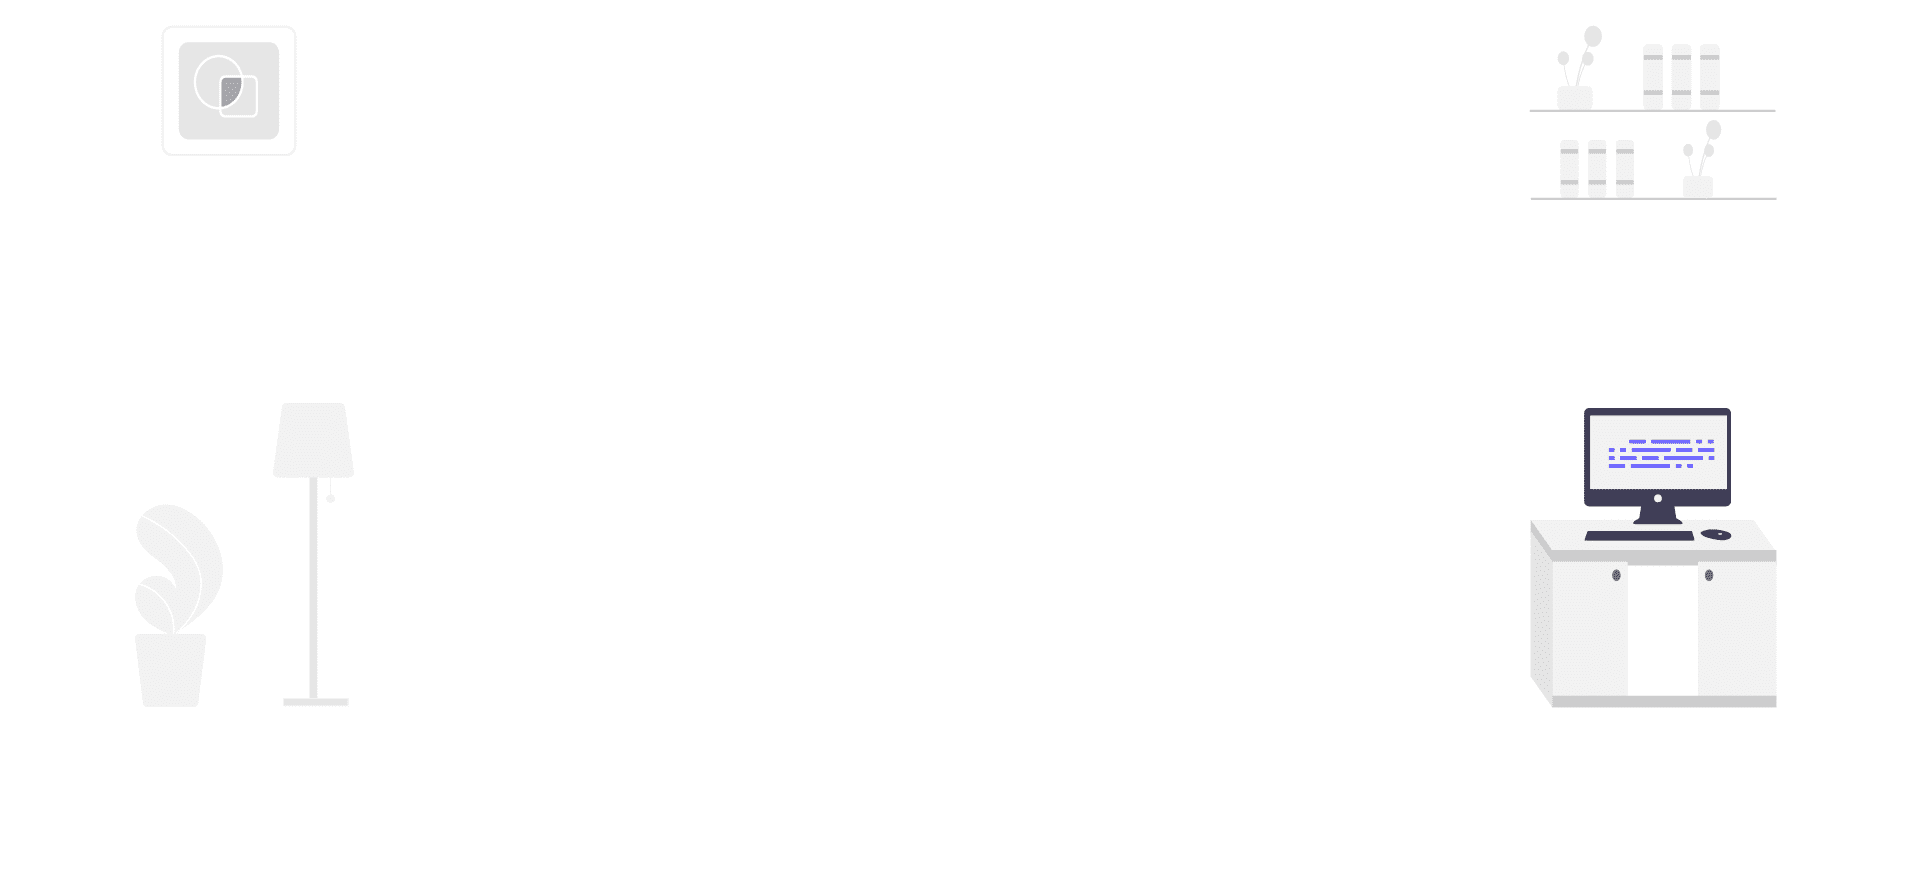
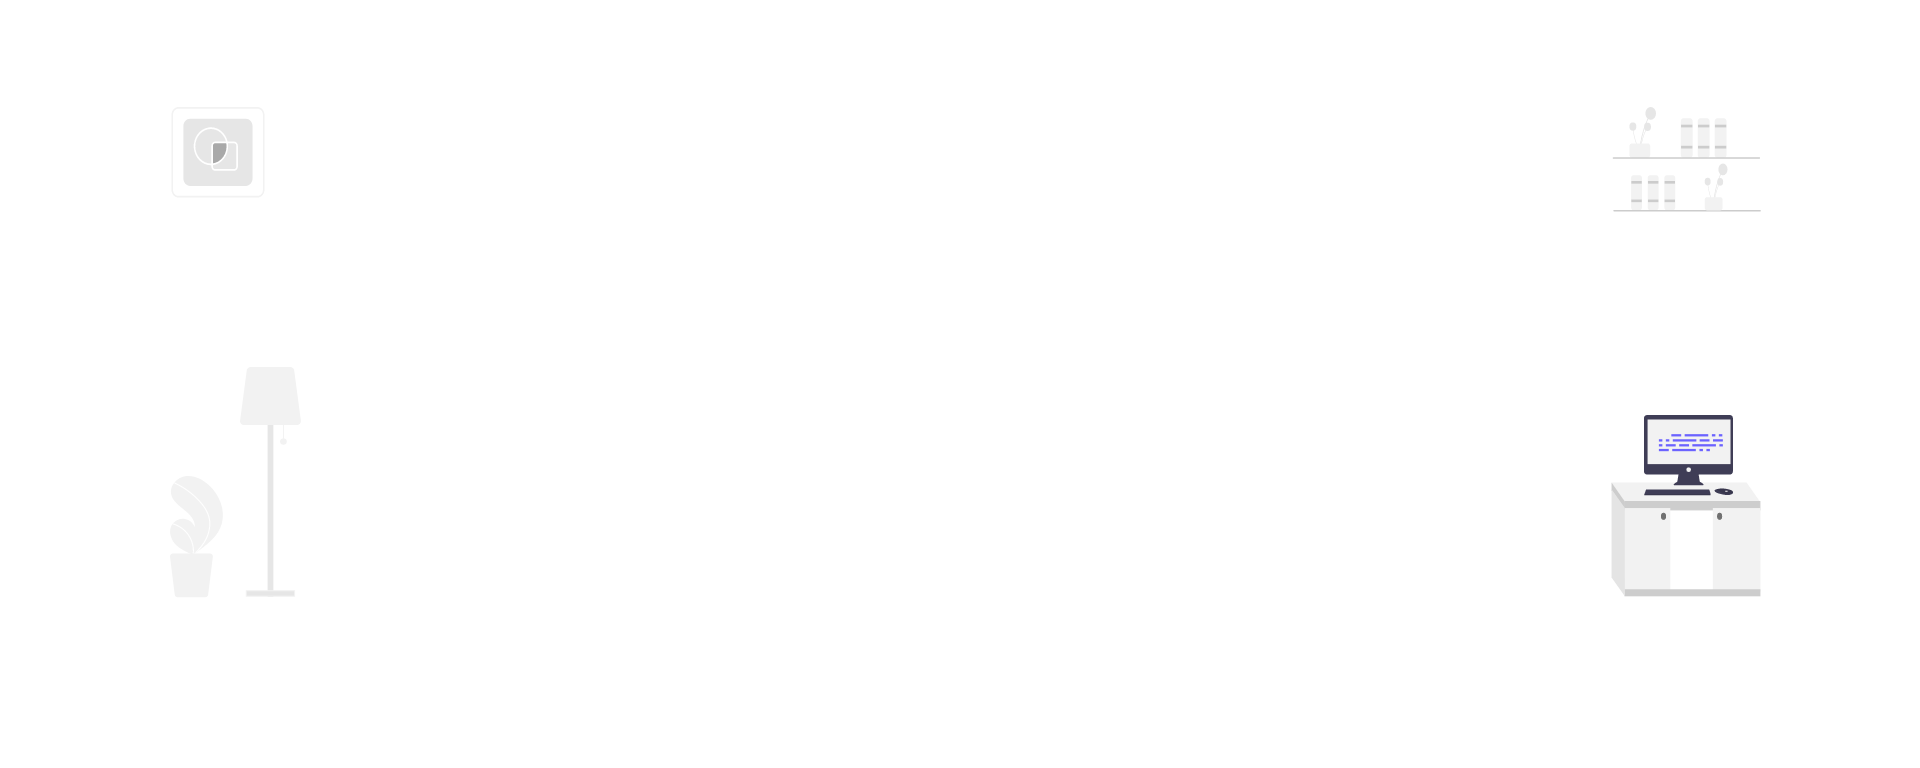
Responsive Homepage

diff --git a/src/index.css b/src/index.css
@@ -2,6 +2,7 @@ body {
     margin: 0;
     padding: 0;
     height: 100%;
+    background: var(--background);
 }
 /* generated by XD */
 :root {
@@ -35,68 +36,3 @@ body {
     --unnamed-line-spacing-72: 72px;
     }
     
-    /* Character Styles */
-    .h1-dark {
-    font-family: var(--unnamed-font-family-poppins);
-    font-style: var(--unnamed-font-style-normal);
-    font-weight: var(--unnamed-font-weight-medium);
-    font-size: var(--unnamed-font-size-48);
-    line-height: var(--unnamed-line-spacing-72);
-    letter-spacing: var(--unnamed-character-spacing-0);
-    color: var(--unnamed-color-211f50);
-    }
-    .h1 {
-    font-family: var(--unnamed-font-family-poppins);
-    font-style: var(--unnamed-font-style-normal);
-    font-weight: var(--unnamed-font-weight-normal);
-    font-size: var(--unnamed-font-size-48);
-    line-height: var(--unnamed-line-spacing-72);
-    letter-spacing: var(--unnamed-character-spacing-0);
-    color: var(--unnamed-color-6c63ff);
-    }
-    .h2 {
-    font-family: var(--unnamed-font-family-poppins);
-    font-style: var(--unnamed-font-style-normal);
-    font-weight: var(--unnamed-font-weight-normal);
-    font-size: var(--unnamed-font-size-30);
-    line-height: var(--unnamed-line-spacing-46);
-    letter-spacing: var(--unnamed-character-spacing-0);
-    color: var(--unnamed-color-6c63ff);
-    }
-    .h3 {
-    font-family: var(--unnamed-font-family-poppins);
-    font-style: var(--unnamed-font-style-normal);
-    font-weight: var(--unnamed-font-weight-normal);
-    font-size: var(--unnamed-font-size-22);
-    line-height: var(--unnamed-line-spacing-48);
-    letter-spacing: var(--unnamed-character-spacing-0);
-    color: var(--unnamed-color-4a4a4a);
-    }
-    .text-regular {
-    font-family: var(--unnamed-font-family-poppins);
-    font-style: var(--unnamed-font-style-normal);
-    font-weight: var(--unnamed-font-weight-normal);
-    font-size: var(--unnamed-font-size-18);
-    line-height: var(--unnamed-line-spacing-24);
-    letter-spacing: var(--unnamed-character-spacing-0);
-    color: var(--unnamed-color-888888);
-    }
-    .text-dark {
-    font-family: var(--unnamed-font-family-poppins);
-    font-style: var(--unnamed-font-style-normal);
-    font-weight: var(--unnamed-font-weight-normal);
-    font-size: var(--unnamed-font-size-18);
-    line-height: var(--unnamed-line-spacing-27);
-    letter-spacing: var(--unnamed-character-spacing-0);
-    color: var(--unnamed-color-4a4a4a);
-    }
-    .button {
-    font-family: var(--unnamed-font-family-segoe-ui);
-    font-style: var(--unnamed-font-style-normal);
-    font-weight: var(--unnamed-font-weight-normal);
-    font-size: var(--unnamed-font-size-40);
-    line-height: var(--unnamed-line-spacing-53);
-    letter-spacing: var(--unnamed-character-spacing--0-8);
-    color: var(--unnamed-color-ffffff);
-    }
-/* generated by XD */

diff --git a/src/components/Homepage/HomePageNavbar.css b/src/components/Homepage/HomePageNavbar.css
@@ -1,27 +1,39 @@
 .Homepage-navbar-Header{
-    padding-left: 3rem;
-    padding-top: 1rem;
-    padding-bottom: 1rem;
+    box-sizing: border-box;
+    margin: 0 auto;
+    background: white;
+    padding: 0 20px;
+    height: 80px;
+    width: 100%;
+    display: flex;
+    justify-content: space-between;
+    align-items: center;
 }
+
 .Homepage-navbar-Logo{
-    display: inline-block;
+    height: 100%;
+    width: auto;
+    padding: 0;
 }
+
+.Homepage-navbar-Menu{
+    display: inline-block;
+    padding: 0;
+}
+
 .Homepage-navbar-About{
     /* generated by XD */
     font: var(--unnamed-font-style-normal) normal var(--unnamed-font-weight-normal) var(--unnamed-font-size-30)/var(--unnamed-line-spacing-46) var(--unnamed-font-family-poppins);
     letter-spacing: var(--unnamed-character-spacing-0);
     background-color: var(--white);
     text-align: right;
-    font: normal normal normal 30px/46px Poppins;
+    font: normal normal normal 24px/46px Poppins;
     letter-spacing: 0px;
     color: #6C63FF;
     opacity: 1;
     /* generated by XD */
+    margin-right: 60px;
     border: 0;
-    position: absolute;
-    right:10rem;
-    top:2rem;
-    margin-right: 4rem;
     cursor: pointer;
 }
 .Homepage-navbar-Login{
@@ -30,14 +42,27 @@
     letter-spacing: var(--unnamed-character-spacing-0);
     background-color: var(--white);
     text-align: right;
-    font: normal normal normal 30px/46px Poppins;
+    font: normal normal normal 24px/46px Poppins;
     letter-spacing: 0px;
     color: #6C63FF;
     opacity: 1;
     /* generated by XD */
     border: 0;
-    position: absolute;
-    right:4rem;
-    top:2rem;
     cursor: pointer;
+}
+
+@media(min-width: 1600px) {
+    .Homepage-navbar-Header {
+        width: 1600px;
+    }
+}
+
+@media(max-width: 600px) {
+    .Homepage-navbar-Header {
+        height: 60px;
+    }
+
+    .Homepage-navbar-Menu {
+        display: none;
+    }
 }

diff --git a/src/components/Homepage/Hero.css b/src/components/Homepage/Hero.css
@@ -1,44 +1,42 @@
 .Hero-heading{
-    /* generated by XD */
-    top: 321px;
-    left: 432px;
-    width: 482px;
-    height: 139px;
     text-align: left;
-    font: normal normal normal 48px/72px Poppins;
+    font: normal normal normal 40px/72px Poppins;
+    font-weight: 700;
     letter-spacing: 0px;
-    color: #6C63FF;
+    color: var(--primary);
     opacity: 1;
-    /* generated by XD */
+    line-height: 100%;
 }
 .Hero-para{
-    /* generated by XD */
-    top: 469px;
-    left: 440px;
-    width: 471px;
-    height: 79px;
     text-align: left;
-    font: normal normal normal 18px/27px Poppins;
+    font: normal normal normal 15px/27px Poppins;
     letter-spacing: 0px;
-    color: #4A4A4A;
+    color: var(--dark-text);
     opacity: 1;
-    /* generated by XD */
 }
 .Hero-cta{
-    /* generated by XD */
-    top: 570px;
-    left: 432px;
-    width: 251px;
-    height: 63px;
     background: #6C63FF 0% 0% no-repeat padding-box;
-    border: 3px solid #6C63FF;
-    border-radius: 8px;
-    font: normal normal normal 40px/53px Segoe UI;
+    border: 0;
+    border-radius: 30px;
+    font: normal normal normal 24px/53px Segoe UI;
     letter-spacing: -0.8px;
     color: #FFFFFF;
     opacity: 1;
-    /* generated by XD */
+    padding: 0px 30px;
+    margin-top: 15px;
 
     cursor: pointer;    
     text-align: center;
+}
+
+@media(max-width: 600px) {
+    .Hero-heading {
+        font: normal normal normal 35px/72px Poppins;
+        font-weight: 700;
+        line-height: 100%;
+    }
+
+    .Hero-cta {
+        font: normal normal normal 22px/53px Segoe UI;
+    }
 }

diff --git a/src/components/Homepage/Homepage.css b/src/components/Homepage/Homepage.css
@@ -1,27 +1,39 @@
-.Homepage-div{
-    /* generated by XD */
-    top: 120px;
-    left: 0px;
-    width: 1920px;
-    height: 880px;
+.Homepage-bg {
     background: transparent url('../../images/Homepage_assets/Background.png') 0% 0% no-repeat padding-box;
-    /* background-position: center; */
+    background-position: center;
     opacity: 1;
-    /* generated by XD */
+    height: 768px;
 }
-.Homepage-bed-image{
-    /* generated by XD */
-    width: 507px;
-    height: 552px;
-    /* generated by XD */
-    display: inline-block;
-    position: absolute;
-    right:26rem;
-    top:18rem;
+
+.Homepage-div{
+    width: 1280px;
+    margin: 80px auto;
+    display: flex;
+    flex-direction: row-reverse;
+    justify-content: space-around;
 }
+
 .Homepage-hero{
-    display: inline-block;
-    position: absolute;
-    left:30rem;
-    top:20rem;
+    width: 50%;
+    margin: auto 10px;
+}
+
+@media(max-width: 768px) {
+    .Homepage-div {
+        width: 100%;
+        display: block;
+        margin: 0;
+    }
+
+    .Homepage-hero {
+        width: 85%;
+        margin: 40px auto;
+    }
+
+    .Homepage-bed-image {
+        width: 100%;
+        height: auto;
+        padding: 25px;
+        box-sizing: border-box;
+    }
 }

diff --git a/src/components/Homepage/Homepage.js b/src/components/Homepage/Homepage.js
@@ -27,12 +27,13 @@ const Homepage = (props) => {
         })
     }
     return (
-        <div>
+        <div className="Homepage-bg">
             <HomePageNavbar handleLogin={signInWithGoogle} />
             <div className="Homepage-div">
                 <img src={bedImg} className="Homepage-bed-image" alt="bedimage" />
-                <Hero className="Homepage-hero" handleLogin={signInWithGoogle}/>
                 <span>{error}</span>
+                <Hero className="Homepage-hero" handleLogin={signInWithGoogle} />
+                
             </div>
         </div>
     );

diff --git a/src/components/Homepage/HomePageNavbar.js b/src/components/Homepage/HomePageNavbar.js
@@ -5,8 +5,10 @@ const HomePageNavbar=(props)=>{
     return(
         <div class="Homepage-navbar-Header">
             <img className="Homepage-navbar-Logo" src={logo} alt="logo"/>
+            <div className="Homepage-navbar-Menu">
             <button className="Homepage-navbar-About">About</button>
             <button className="Homepage-navbar-Login" onClick={props.handleLogin}>Login</button>
+            </div>
         </div>
     )
 }
